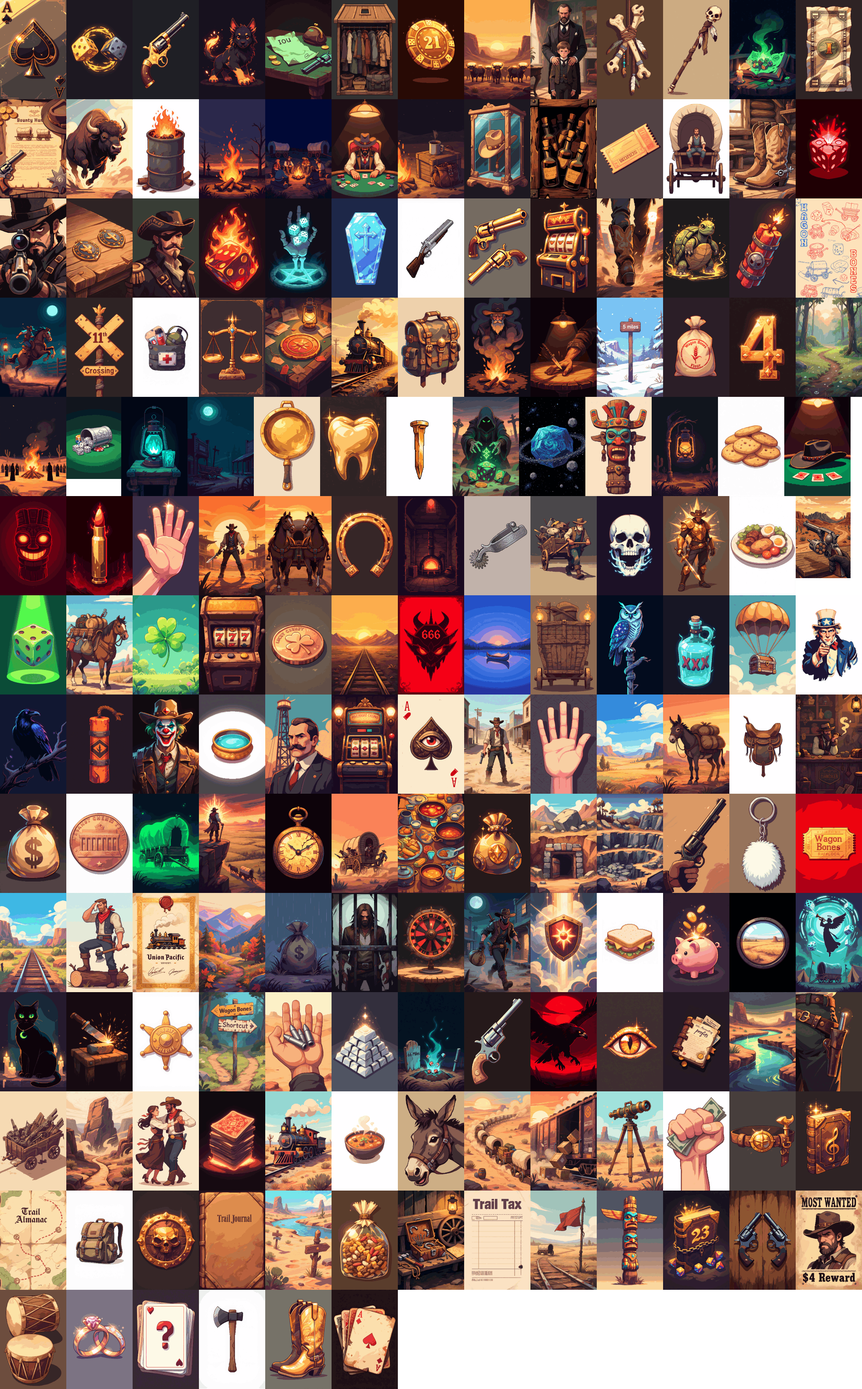
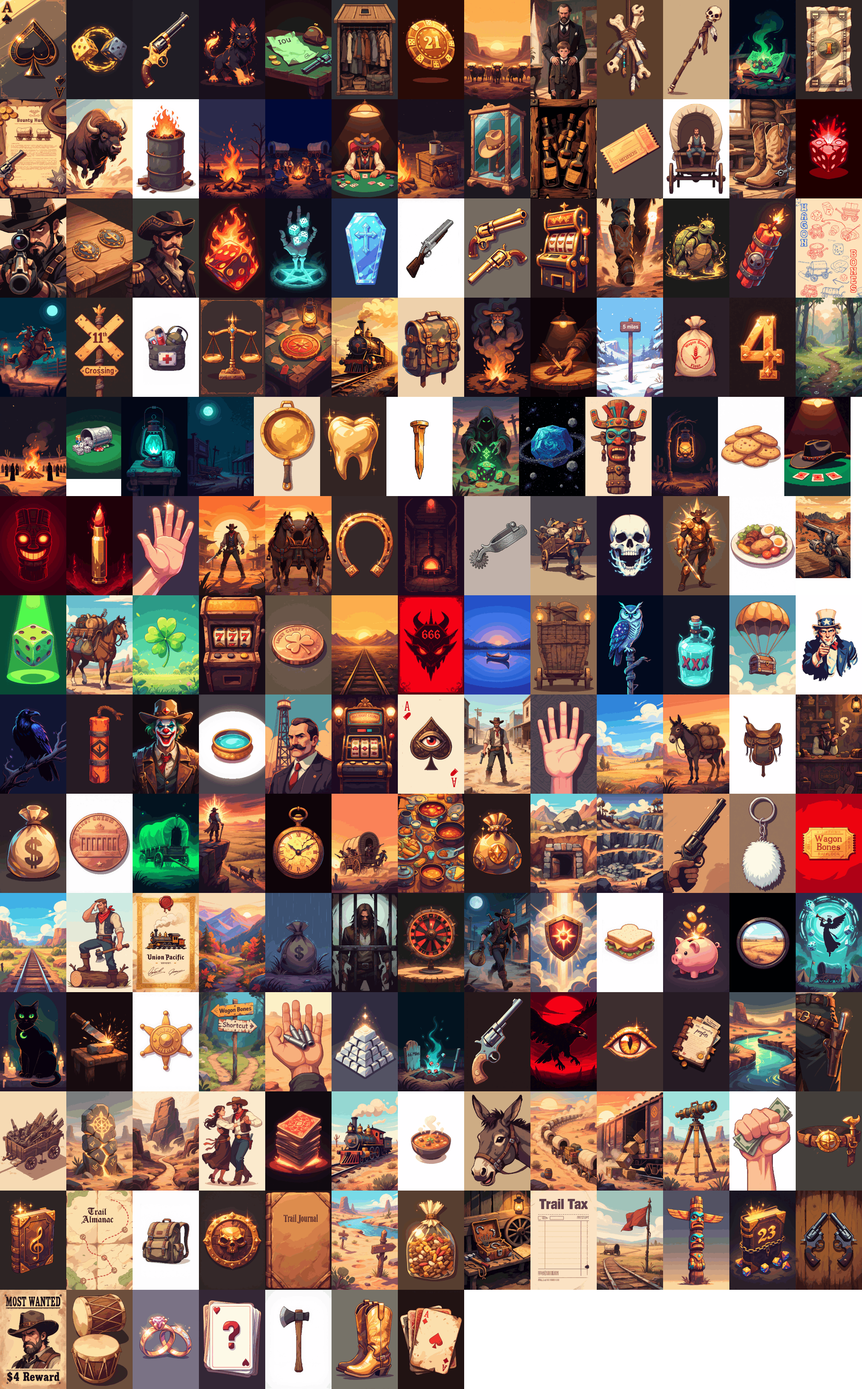
Implement Spirit Path item and enhance gap straight mechanics
- Introduced the new item 'Spirit Path' with unique gameplay mechanics allowing straights to be formed with gaps of one rank between values.
- Updated item definitions in JSON files and added corresponding tests to validate the new functionality.
- Enhanced the DiceSystem to accommodate the new gap straight logic, ensuring accurate hand classification during gameplay.
- Refactored related game constants and added tests to ensure the Spirit Path's interactions are correctly implemented and functioning as intended.

These changes enrich the gameplay experience by adding strategic depth through the Spirit Path item and its associated mechanics.

diff --git a/src/game/DiceSystem.ts b/src/game/DiceSystem.ts
@@ -16,6 +16,7 @@ import {
 } from './equipmentUtils';
 import { getRoundState } from './store/roundStore';
 import { selectGravityDice } from './store/selectors/roundSelectors';
+import { hasSpiritPath } from './spiritPath';
 import { D } from './scoreMath';
 import { rngFloat, rngInt, rngPick, rngShuffle } from './RunRng';
 
@@ -175,13 +176,17 @@ function getFrequencies(dice: Die[]): Map<number, number> {
   return freq;
 }
 
-function findLongestStraight(dice: Die[]): number[] {
+function findLongestStraight(dice: Die[], allowGaps = false): number[] {
+  if (dice.length === 0) return [];
+
   const unique = [...new Set(dice.map((d) => d.value))].sort((a, b) => a - b);
   let best: number[] = [];
   let current: number[] = [unique[0]];
 
   for (let i = 1; i < unique.length; i++) {
-    if (unique[i] === unique[i - 1] + 1) {
+    const diff = unique[i] - unique[i - 1];
+    const extendsChain = diff === 1 || (allowGaps && diff === 2);
+    if (extendsChain) {
       current.push(unique[i]);
     } else {
       if (current.length > best.length) best = current;
@@ -212,30 +217,33 @@ function allDiceShareEnhancement(dice: Die[]): boolean {
   return dice.every((d) => d.enhancement === enhancement);
 }
 
+type HandPatternResult = { pattern: HandType; straight: number[] };
+
 /** Base hand pattern (no flush variants) from pip layout alone. */
-function classifyHandPattern(dice: Die[]): HandType {
-  if (dice.length === 0) return HandType.HIGH_VALUE;
+function classifyHandPattern(dice: Die[], allowGaps: boolean): HandPatternResult {
+  if (dice.length === 0) return { pattern: HandType.HIGH_VALUE, straight: [] };
 
   const freq = getFrequencies(dice);
   const counts = [...freq.values()].sort((a, b) => b - a);
-  const straight = findLongestStraight(dice);
+  const straight = findLongestStraight(dice, allowGaps);
 
-  if (counts[0] >= 5) return HandType.FIVE_OF_A_KIND;
-  if (straight.length >= 5) return HandType.FIVE_STRAIGHT;
-  if (counts[0] >= 4) return HandType.FOUR_OF_A_KIND;
-  if (counts[0] >= 3 && counts[1] >= 2) return HandType.FULL_HOUSE;
-  if (straight.length >= 4) return HandType.FOUR_STRAIGHT;
-  if (counts[0] >= 3) return HandType.THREE_OF_A_KIND;
-  if (counts[0] >= 2 && counts[1] >= 2) return HandType.TWO_PAIR;
-  if (counts[0] >= 2) return HandType.PAIR;
-  return HandType.HIGH_VALUE;
+  if (counts[0] >= 5) return { pattern: HandType.FIVE_OF_A_KIND, straight };
+  if (straight.length >= 5) return { pattern: HandType.FIVE_STRAIGHT, straight };
+  if (counts[0] >= 4) return { pattern: HandType.FOUR_OF_A_KIND, straight };
+  if (counts[0] >= 3 && counts[1] >= 2) return { pattern: HandType.FULL_HOUSE, straight };
+  if (straight.length >= 4) return { pattern: HandType.FOUR_STRAIGHT, straight };
+  if (counts[0] >= 3) return { pattern: HandType.THREE_OF_A_KIND, straight };
+  if (counts[0] >= 2 && counts[1] >= 2) return { pattern: HandType.TWO_PAIR, straight };
+  if (counts[0] >= 2) return { pattern: HandType.PAIR, straight };
+  return { pattern: HandType.HIGH_VALUE, straight };
 }
 
 function detectFlushVariant(dice: Die[]): HandType {
   const allStone = dice.every((d) => d.enhancement === 'stone');
   if (allStone) return HandType.FLUSH_FIVE;
 
-  const pattern = classifyHandPattern(dice);
+  const allowGaps = hasSpiritPath(resolveEquipmentList());
+  const { pattern } = classifyHandPattern(dice, allowGaps);
   if (pattern === HandType.FIVE_OF_A_KIND) return HandType.FLUSH_FIVE;
   if (pattern === HandType.FIVE_STRAIGHT) return HandType.STRAIGHT_FLUSH;
   if (pattern === HandType.FULL_HOUSE) return HandType.FLUSH_HOUSE;
@@ -274,9 +282,9 @@ export function detectBestHand(dice: Die[]): HandResult {
  * Internal: detect best hand from non-stone dice only.
  */
 function detectBestHandFromDice(dice: Die[]): HandResult {
-  const pattern = classifyHandPattern(dice);
+  const allowGaps = hasSpiritPath(resolveEquipmentList());
+  const { pattern, straight } = classifyHandPattern(dice, allowGaps);
   const freq = getFrequencies(dice);
-  const straight = findLongestStraight(dice);
 
   switch (pattern) {
     case HandType.FIVE_OF_A_KIND:

diff --git a/src/game/__tests__/scoring.test.ts b/src/game/__tests__/scoring.test.ts
@@ -18,6 +18,7 @@ import { createEmptyTrailRoundEffects } from '../TrailEventsSystem';
 import { getEnhancementScoreDestroyChance } from '../../data/dice_enhancements';
 import { resetPlayerState } from '../__tests__/testRunPlayer';
 import { detectBestHand, rollDie, setDieEnhancement } from '../DiceSystem';
+import { getBossRoundState } from '../BossEffectsSystem';
 import { initRunRng } from '../RunRng';
 import { GAMEPLAY } from '../Constants';
 
@@ -713,6 +714,67 @@ describe('secret flush hands', () => {
     // findLongestStraight only checks consecutive sorted values — no 12→1 wrap
     expect(result.type).toBe(HandType.FLUSH);
     expect(result.type).not.toBe(HandType.STRAIGHT_FLUSH);
+  });
+});
+
+// ─── Spirit Path: gap straights ───
+
+describe('Spirit Path gap straights', () => {
+  beforeEach(() => setupGame());
+
+  test('without Spirit Path, gap sequences are not straights', () => {
+    expect(detectBestHand(diceFromValues([1, 3, 5, 7, 9])).type).toBe(HandType.HIGH_VALUE);
+    expect(detectBestHand(diceFromValues([1, 2, 4, 5])).type).toBe(HandType.HIGH_VALUE);
+  });
+
+  test('without Spirit Path, subsequence straights still work', () => {
+    expect(detectBestHand(diceFromValues([1, 4, 5, 6, 7])).type).toBe(HandType.FOUR_STRAIGHT);
+  });
+
+  test('with Spirit Path, gap five straight is detected', () => {
+    setupGame({ equipment: [item('spirit_path')] });
+    expect(detectBestHand(diceFromValues([1, 3, 5, 7, 9])).type).toBe(HandType.FIVE_STRAIGHT);
+  });
+
+  test('with Spirit Path, gap four straight is detected', () => {
+    setupGame({ equipment: [item('spirit_path')] });
+    expect(detectBestHand(diceFromValues([1, 2, 4, 5])).type).toBe(HandType.FOUR_STRAIGHT);
+  });
+
+  test('with Spirit Path, strict five straight still works', () => {
+    setupGame({ equipment: [item('spirit_path')] });
+    expect(detectBestHand(diceFromValues([1, 2, 3, 4, 5])).type).toBe(HandType.FIVE_STRAIGHT);
+  });
+
+  test('with Spirit Path, diff 3 still blocks five straight extension', () => {
+    setupGame({ equipment: [item('spirit_path')] });
+    expect(detectBestHand(diceFromValues([1, 4, 5, 6, 7])).type).toBe(HandType.FOUR_STRAIGHT);
+  });
+
+  test('with Spirit Path, matching enhancement gap straight is straight flush', () => {
+    setupGame({ equipment: [item('spirit_path')] });
+    const dice = enhancedDice([1, 3, 5, 7, 9], 'wooden');
+    expect(detectBestHand(dice).type).toBe(HandType.STRAIGHT_FLUSH);
+  });
+
+  test('Rail Line triggers on Spirit Path gap four straight', () => {
+    const { result } = calculateTestScore({
+      scoredDice: diceFromValues([1, 2, 4, 5]),
+      equipment: [item('spirit_path'), item('rail_line')],
+    });
+    // FOUR_STRAIGHT: baseMiles=15, +80 = 95, baseMult=2; totalValue=12 → (95+12)*2=214
+    expect(result.handResult.type).toBe(HandType.FOUR_STRAIGHT);
+    expect(result.miles).toBeMiles(214);
+  });
+
+  test('boss-disabled Spirit Path does not grant gap straights', () => {
+    const { game } = setupGame({
+      bossId: 'the_jinx',
+      equipment: [item('spirit_path')],
+    });
+    game.startRound();
+    getBossRoundState().disabledEquipmentIndices = [0];
+    expect(detectBestHand(diceFromValues([1, 3, 5, 7, 9])).type).toBe(HandType.HIGH_VALUE);
   });
 });
 

diff --git a/src/data/items.ts b/src/data/items.ts
@@ -3373,6 +3373,19 @@ const items: ItemDef[] = [
     },
   },
   {
+    id: 'spirit_path',
+    name: 'Spirit Path',
+    cardTemplate: 'white-text-black-outline',
+    cost: 7,
+    rarity: 'uncommon',
+    effectType: 'SPIRIT_PATH',
+    effectParams: {},
+    display: (_round, _player) => ({
+      hint: [[active('Gap straights', 'sm')]],
+      tooltip: [[text('Allows Straights to be made with one or more gaps of 1 rank between values (ex: 2 4 5 7 9)')]],
+    }),
+  },
+  {
     id: 'split_trail',
     name: 'Split Trail',
     cardTemplate: 'white-text-black-outline',

diff --git a/src/game/spiritPath.ts b/src/game/spiritPath.ts
@@ -1,0 +1,12 @@
+// ─── Spirit Path: gap-straight rule modifier ───
+
+import type { EquipmentInstance } from './ItemsSystem';
+import { isEquipmentDisabledByBoss } from './BossEffectsSystem';
+
+export function hasSpiritPath(equipment: EquipmentInstance[]): boolean {
+  for (let i = 0; i < equipment.length; i++) {
+    if (isEquipmentDisabledByBoss(i)) continue;
+    if (equipment[i].def.effectType === 'SPIRIT_PATH') return true;
+  }
+  return false;
+}

diff --git a/src/game/Constants.ts b/src/game/Constants.ts
@@ -643,6 +643,7 @@ export const COPY_INCOMPATIBLE_EFFECTS = new Set([
   'LOADED_DICE', // Loaded Dice
   'GRAVITY', // Gravity
   'STACKED_DECK', // Stacked Deck
+  'SPIRIT_PATH', // Spirit Path
   'END_ROUND_MONEY_SCALING', // Railroad Bonds
   'SELL_DISABLE_BOSS', // Sheriff's Badge
   'SELL_GRANT_TAG', // Bounty Contract
